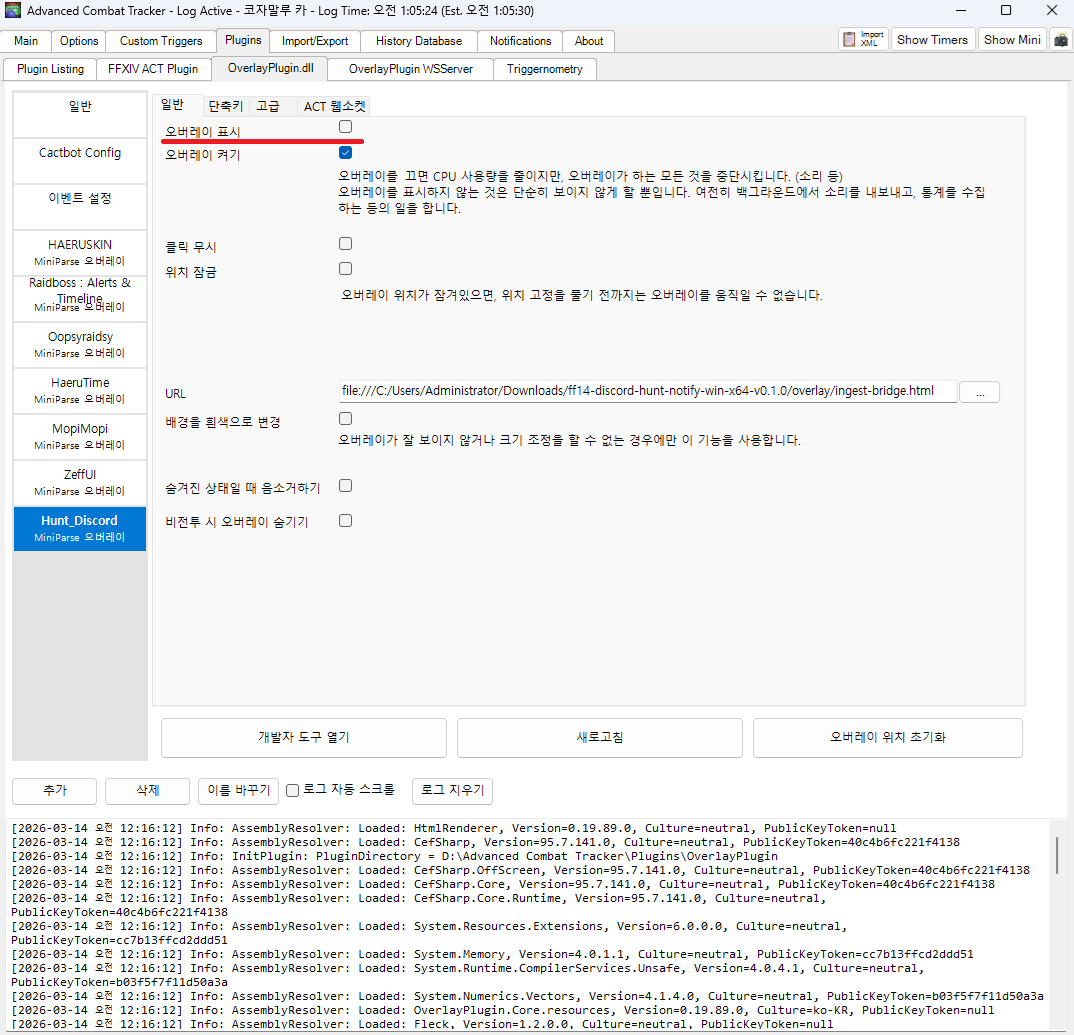
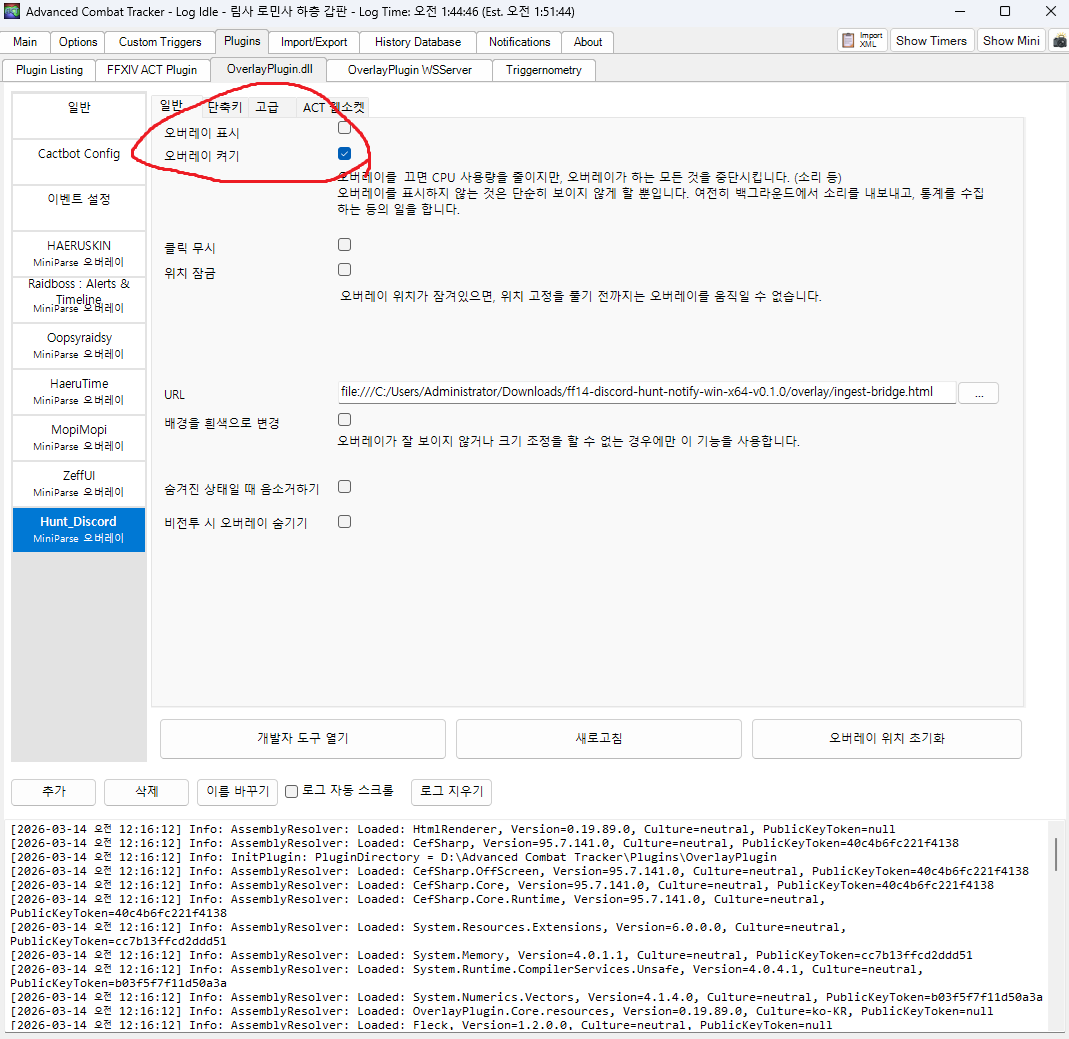
Update overlay screenshot and fix debug command formatting
- Update 10.png overlay screenshot
- Fix powershell code block syntax in troubleshooting section

diff --git a/README.md b/README.md
@@ -179,13 +179,12 @@ Waiting for filtered log lines
 
 ### 브리지는 켜졌는데 알림이 안 오는 경우
 
-아래 주소로 상태를 확인합니다.
+PowerShell에서 아래 명령어로 상태를 확인합니다.
 
-```text
-#powershell
+```powershell
 Invoke-RestMethod 'http://127.0.0.1:5059/health' | ConvertTo-Json -Depth 5
 Invoke-RestMethod 'http://127.0.0.1:5059/debug/recent' | ConvertTo-Json -Depth 6
-
+```
 
 ---
 
